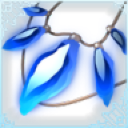
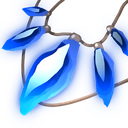
making weapons.html use unframed weapon images

diff --git a/js/basement_js/weapon.js b/js/basement_js/weapon.js
@@ -50,7 +50,7 @@ function updateWeaponDisplay(){
     history.replaceState(null, "", "#"+weapon.slug);
 
     weaponDisplay.text.textContent = (weapon.id ?? "???") + " - "+ (weapon.aliases[0] ?? weapon.name);
-    weaponDisplay.image.src = `media/owo_images/f_${weapon.slug}.png`;
+    weaponDisplay.image.src = `media/owo_images/${weapon.slug}.png`;
 
     fetch(`donatorPages/weapons/${weapon.slug}.html`)
         .then(async r => {
@@ -89,7 +89,7 @@ function createWikipediaContainer(weapon){
             weapon.name,
             make("div",{className:"wikipedia-aliases"},[makeAliasString(weapon.aliases)])
         ]),
-        make("img",{className:"wikipedia-image", src:`media/owo_images/f_${weapon.slug}.png`}),
+        make("img",{className:"wikipedia-image", src:`media/owo_images/${weapon.slug}.png`}),
         make("div", {className:"wikipedia-stars"},weapon.wikiStars.map(makeStarDisplay)),
         make("div",{className:"wikipedia-id"}, [
             make("div",{innerHTML:"ID: " + (weapon.id ?? "???")})
